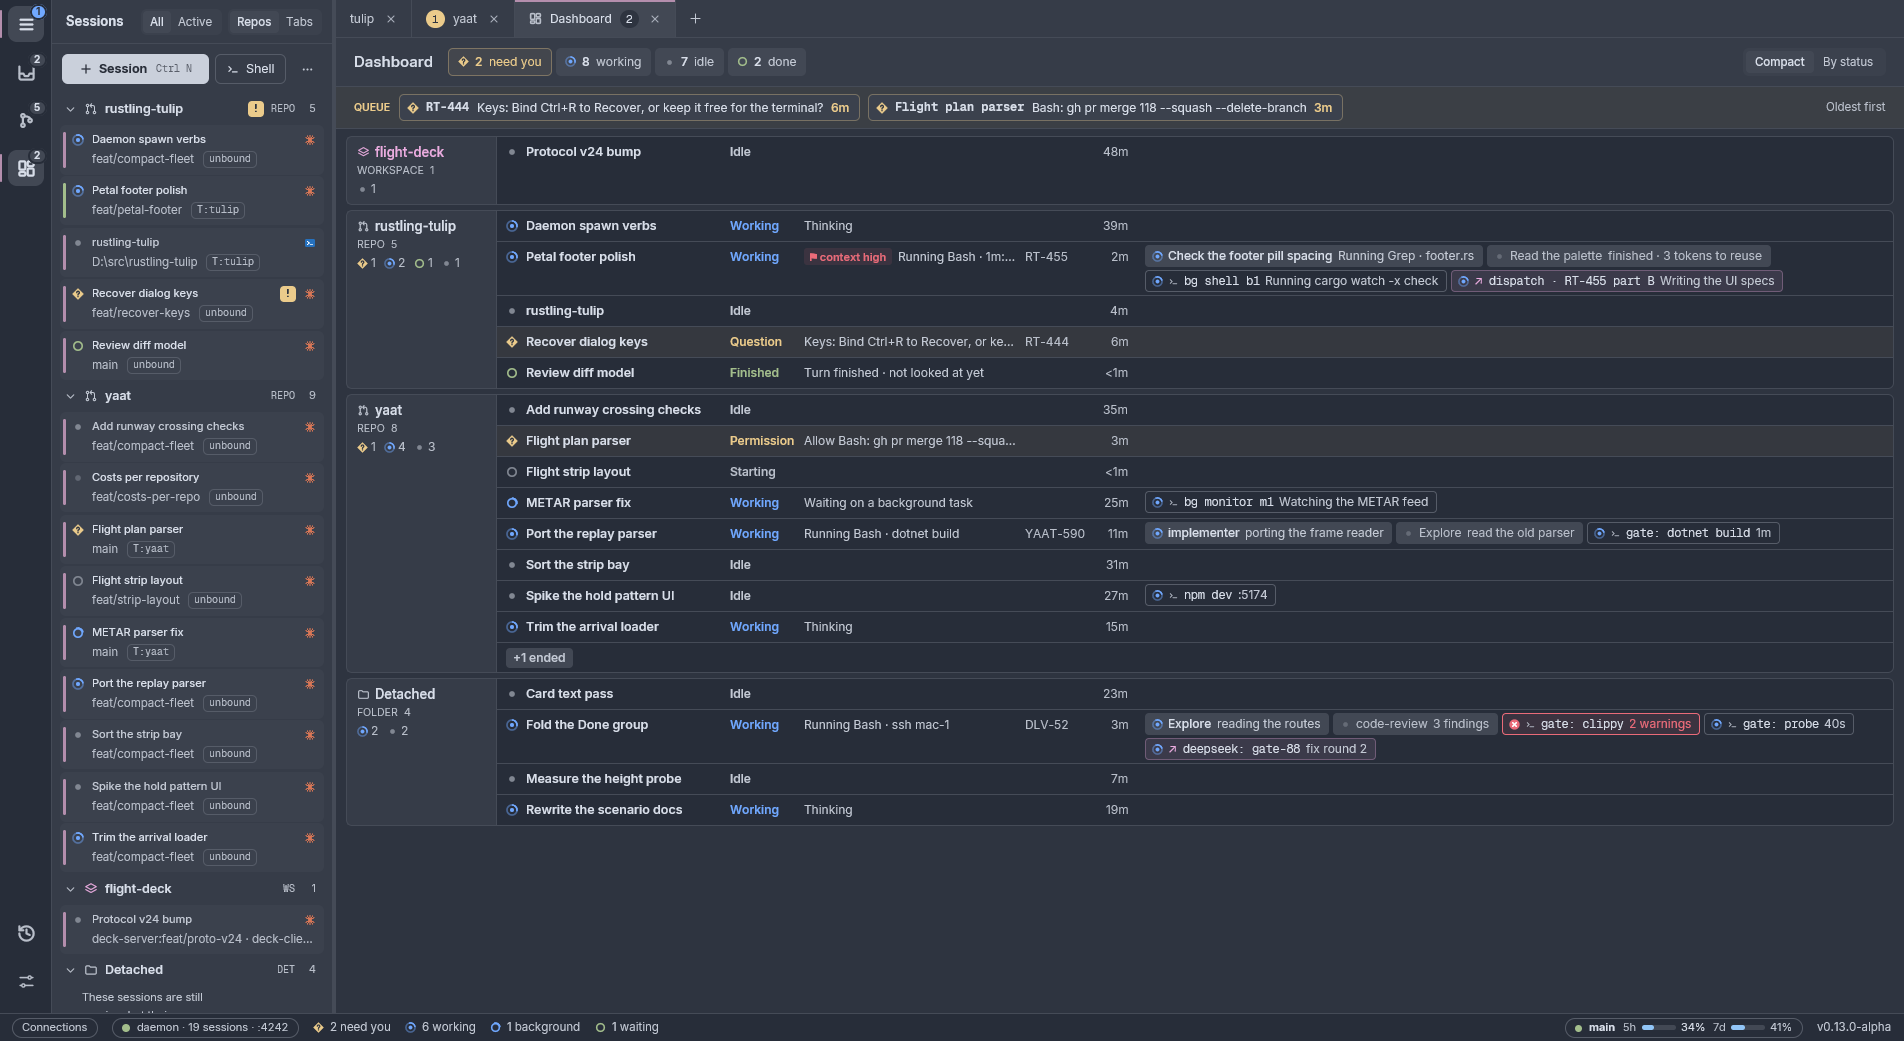
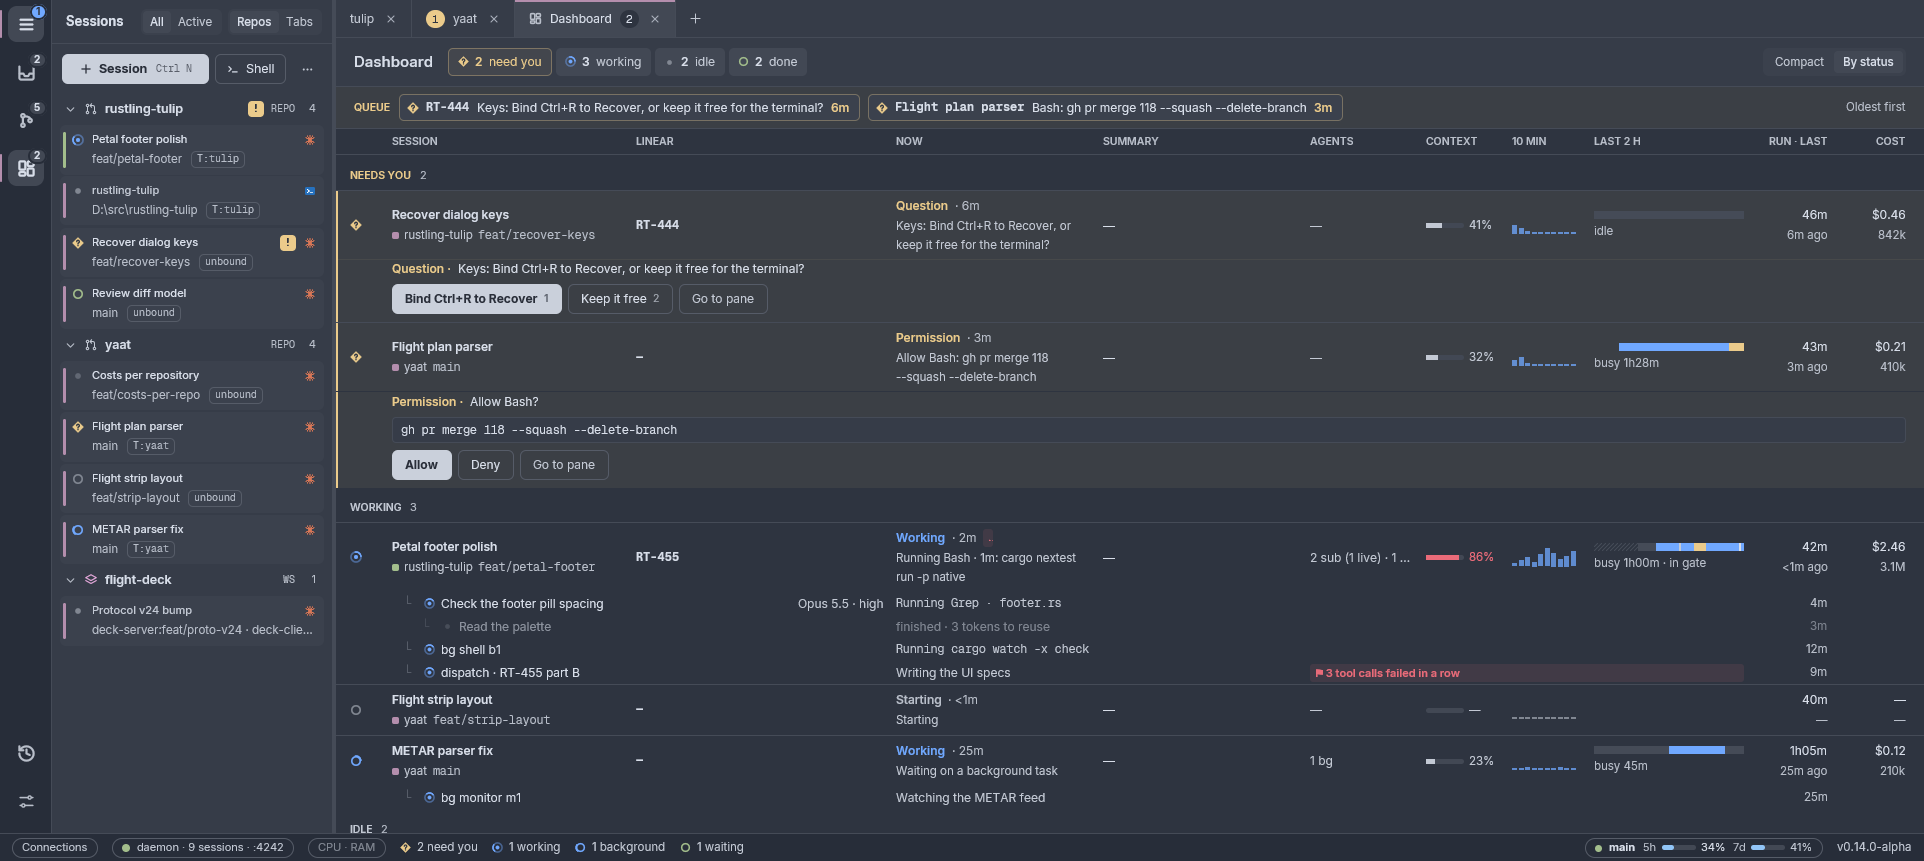
docs: refresh the README for v0.14.0-alpha

diff --git a/README.md b/README.md
@@ -20,7 +20,7 @@ It is alpha software.
 - Turn on session summaries in Settings › Dashboard and each finished turn of a Claude session gets a one-line summary, kept across restarts, with a daily cap on what they spend.
 - The Dashboard tab, opened from the activity rail, opens on a Compact view of every running agent by repo, with its state, work and subagents (each with its model and effort level) and no scrolling. Its By status view adds context, recent work, cost, a two-hour activity bar and the Linear issue named in each session's branch, with a drawer per session.
 - Answer a session's question or permission prompt from the Dashboard with one click, or jump to its pane; the header counts today's cost, tokens and commits across every session.
-- Dispatch runs show in the sidebar tagged DS. Click one, or drag it onto a pane, to follow it with its cost, tokens, recent actions and a Stop button; the Dashboard lists each under the session that started it.
+- A session's dispatch runs (DS) and subagents (SA) nest under it in the sidebar, a run's own subagents under the run, and a chevron folds them away. Click one, or drag it onto a pane, to follow its transcript: replies, tool calls and their output, which a click expands. A run's pane adds its cost, tokens and a Stop button, and the Dashboard lists each run under the session that started it.
 - `rustling-tulipd` drives sessions from a shell or a script: `sessions`, `read`, `spawn`, `send`, `kill`, `wait` and `watch`, each with `--json`.
 - Ctrl+Shift+P opens a jump palette: type to find any open pane, tab, session, repo or workspace, and Enter goes straight there. It also opens a shell on any connected computer.
 - Open a repo's, workspace's or tab's menu from the keyboard with Shift+F10 or the Menu key.
@@ -73,6 +73,8 @@ It is alpha software.
 - The sidebar groups sessions by host, each with its own + Shell; remote panes and tabs carry their host's name, one tab can mix panes from several hosts, and an offline host dims until it reconnects.
 - Spawning, shells, Add repo, presets and Settings work on any connected host: the spawn picker groups repos by host, and Settings has a host selector.
 - Connections and Settings show the release each host runs and mark an older one Behind. Update it from Connections, over Tailscale or SSH, and a notice follows it until it is back; a release that ends sessions or breaks the connection is named before you confirm.
+- Unbind every session of one host from Connections, the jump palette or its header: they keep running there. Rebind them into new tabs by grid, side by side, stacked, or following that host's own layout.
+- The status bar shows CPU and RAM for This PC and any hosts you pick by right-clicking its pills, and a busy machine turns amber.
 - From This PC's row in Connections, tell every connected client to update: each counts down 10 seconds with Cancel, and phones reload. When another device updates this PC, the app counts down the same way and reopens after the update.
 
 ![This PC's group in the sidebar with its + Repo and + Shell, a remote session's pane marked with its host "box" beside a local one, and the footer counting 2/3 hosts online](docs/images/multi-host.png)
@@ -129,12 +131,13 @@ It is alpha software.
 
 - A page per agent: Claude's permission mode, its provider (Anthropic, or DeepSeek with your own `DEEPSEEK_API_KEY`), its default effort level, and its launch command, so you can run another program, an alias or extra arguments.
 - Which notifications to show and when to skip them, and whether to keep the PC awake (off, while a session is busy, or always).
+- Whether the first click on a pane that isn't focused also acts in it (the default) or only focuses it.
 - Start the daemon at login, the folder worktrees go in, and Manage worktrees to clean up old ones.
 - Appearance: themes for the whole window and its terminals (built-in ones, Nord by default, or your own), session accent colours, terminal and interface fonts (Inter, Geist, Schibsted Grotesk or any installed font), the interface's text size and weight, the terminal's weight and frame width per app, repo, workspace or session, font sizes per session or per tab, and the window title.
 - The Themes window previews every theme with its contrast check, edits any colour of your own copy, and exports or imports theme files.
 - A search box finds any setting on any page (Ctrl+F), and changes wait for OK or Apply; Cancel or Esc discards them. Appearance and the Themes picker preview a change at once.
 - The Chat section sets Compact or Comfortable and the chat's maximum width, and Diagnostics has a Detailed logging switch and Open logs folder.
-- Update notices have a What's new button with the release notes for every version since the one you had.
+- Update notices have a What's new button with the release notes for every version since the one you had, and a right-click on the version in the status bar checks for updates at once.
 
 ![The Settings window on its General page](docs/images/settings.png)
 
@@ -156,6 +159,14 @@ On a Mac with Apple silicon (there is no build for Intel Macs):
 4. Secret environment rows need Windows Credential Manager, so on a Mac a session with a secret row will not start; give it the secret through an `${env:NAME}` row instead.
 
 Remote access over Tailscale needs [Tailscale](https://tailscale.com/) on both PCs, signed in to the same tailnet, with HTTPS certificates turned on for it. Remote access over SSH needs only an SSH login to the other PC.
+
+## What's new in v0.14.0-alpha
+
+- Dispatch runs and subagents nest under their session in the sidebar, and a pane following one shows its full transcript.
+- Unbind every session of one machine, or rebind them into new tabs by a layout.
+- The status bar shows CPU and RAM for this PC and the remote hosts you pick.
+
+The full list is in the [release notes](https://github.com/leftos/rustling-tulip/releases/tag/v0.14.0-alpha).
 
 ## What's new in v0.13.0-alpha
 
